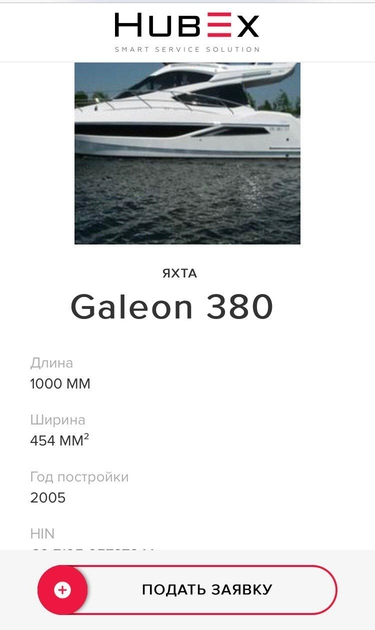
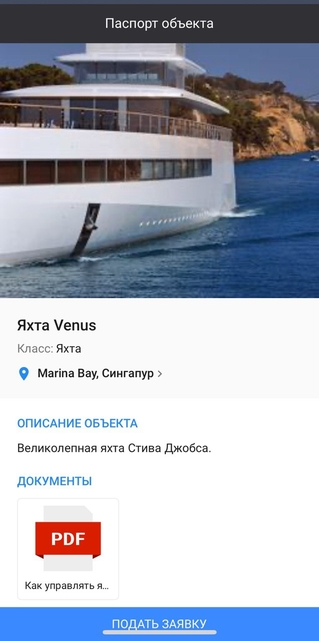
upd

diff --git a/docs/FAQ/RU/user/CreatingTaskTemplates.md b/docs/FAQ/RU/user/CreatingTaskTemplates.md
@@ -26,7 +26,7 @@ description: Как создать шаблон заявки, а также по
   <title>Быстрый переход внутри документа</title>
  <ul>
        <li><a href="#ticktempl">Создавать QR-коды;</a></li>
-       <li><a href="#passport">Просматривать паспорт объекта;</a></li>
+       <li><a href="#passport">Просматривать паспорт объекта и подавать заявки;</a></li>
        <li><a href="#passporteng">Просматривать паспорт объекта в МП Инженера;</a></li>
        <li><a href="#downloadqr">Скачивать QR-коды.</a></li>
  </ul>
@@ -50,12 +50,20 @@ description: Как создать шаблон заявки, а также по
 
 ![templt5.png](/attachments/images/FAQ/USER/CreatingTickTemplates/templt5.png)
 
-<h5 id="passport">Паспорт объекта</h5>
-При сканировании QR кода можно получить паспорт объекта, в котором указаны основная информация и публичные файлы и документы по объекту.
+<h5 id="passport">Паспорт объекта и подача заявки</h5>
+Отсканировав QR-код с помощью Вашей камеры или же приложения, распознающего QR-коды, Вы перейдете на страницу в браузере, на которой вы увидите паспорт объекта, в котором указана основная информация и публичные файлы, а также документы по объекту.
 
 <div>
   <img  style="margin: 0 auto; display: block; max-width: 100%;" src="/attachments/images/FAQ/USER/CreatingTickTemplates/templt2.jpg" />
 </div>
+
+В одном из последних обновлений системы HubEx появилась возможность создания заявок, не заходя в мобильное приложение.
+Нажав на кнопку «Подать заявку», после чего заполнив все требуемые пункты в окне создании заявки, Вы можете указать методы связи с Вами (почту или мобильный телефон) или же вовсе отказаться от уведомлений по заявке. Если же вы новый пользователь, то указав свои данные, Вы будете зарегистрированы в системе и к Вам на указанную почту (телефон) придет пароль для входа в систему HubEx. Если же Вы уже являетесь пользователем, то новая заявка просто отобразится в списке Ваших заявок в мобильном приложении. Для того, чтобы у пользователя появилась возможность подавать заявку через WEB-паспорт, Вам потребуется дать разрешение на подачу заявки в разделе "Маркировка". Пошагово данный процесс выглядит так:
+1) Заходим в профиль объекта;
+2) Переходим на вкладку QR - коды;
+3) В созданном QR - коде ставим галочку, напротив надписи "Разрешить подачу заявки".
+
+![templt10.png](/attachments/images/FAQ/USER/CreatingTickTemplates/templt10.png)
 
 <h5 id="passporteng">Паспорт объекта в МП Инженера</h5>
 

diff --git a/index.md b/index.md
@@ -20,7 +20,7 @@
 Чтобы облегчить Вам работу, мы уже создали в системе Вашу компанию, также вы можете увидеть предопределенные Роли для пользователей, Типы заявок и Виды работ.
 
 <h4>
-<a href="docs/FAQ/RU/user/HubExStepByStep.html">Знакомство с системой HubEx</a><span class="updated-badge" title="16.09.2019"></span>
+<a href="docs/FAQ/RU/user/HubExStepByStep.html">Знакомство с системой HubEx</a><span class="updated-badge" title="13.10.2019"></span>
 </h4>
 
 Для успешного начала работы выполните следующие шаги:
@@ -38,7 +38,7 @@
 #### [Прикрепление выполненных работ](docs/FAQ/RU/user/AttachingFiles.md)
 #### [Создание шаблона оборудования и маркировка](docs/FAQ/RU/user/CreatingObjTemplates.md)
 <h4>
-<a href="/docs/FAQ/RU/user/CreatingTaskTemplates.html">Создание QR-кода и паспорта объекта</a><span class="updated-badge" title="16.09.2019"></span>
+<a href="/docs/FAQ/RU/user/CreatingTaskTemplates.html">Создание QR-кода и паспорта объекта</a><span class="updated-badge" title="14.10.2019"></span>
 </h4>
 #### [Саморегистрация и подача заявок](docs/FAQ/RU/user/SelfRegister.md)
 #### [Ограничение видимости файлов](docs/FAQ/RU/user/ViewRestriction.md)
